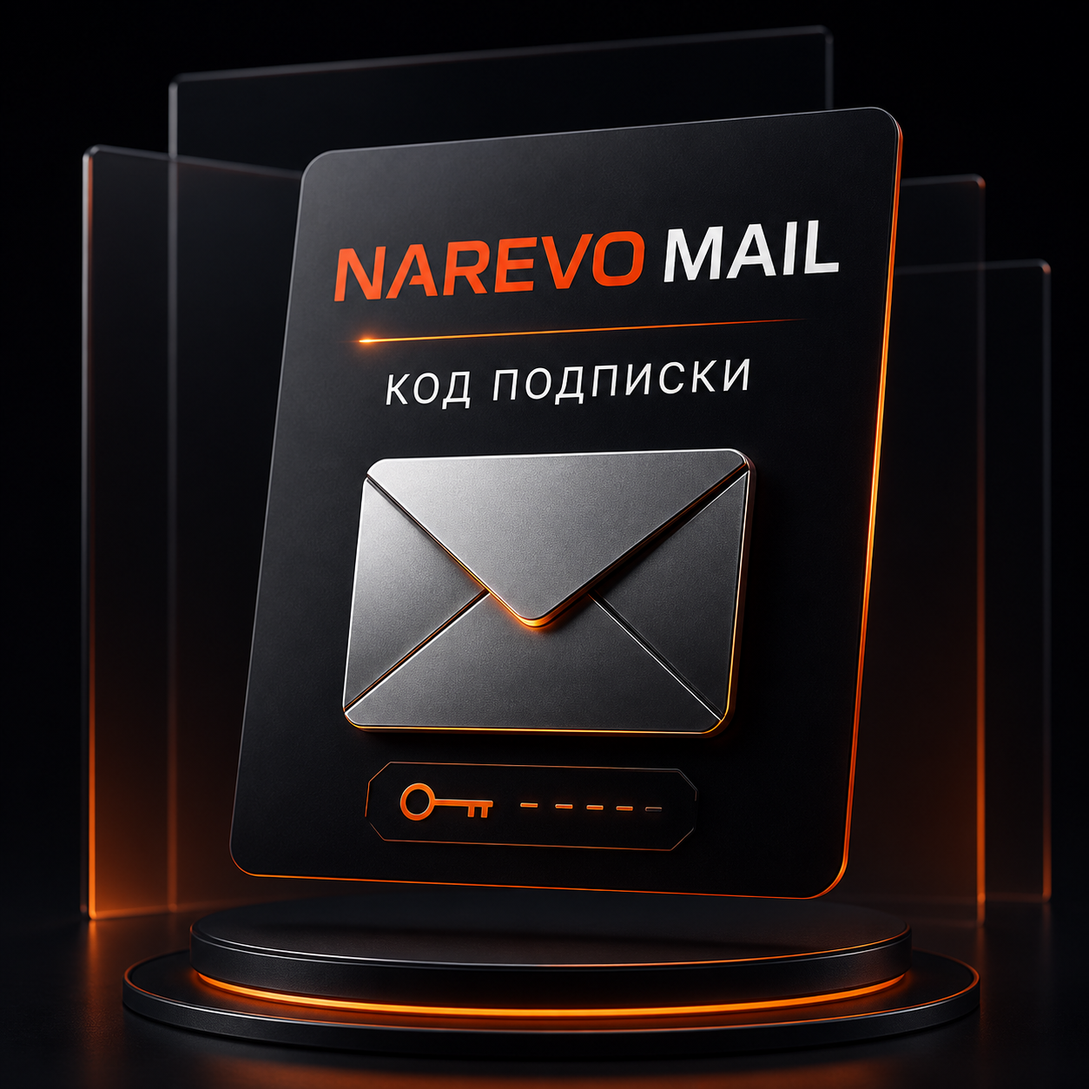
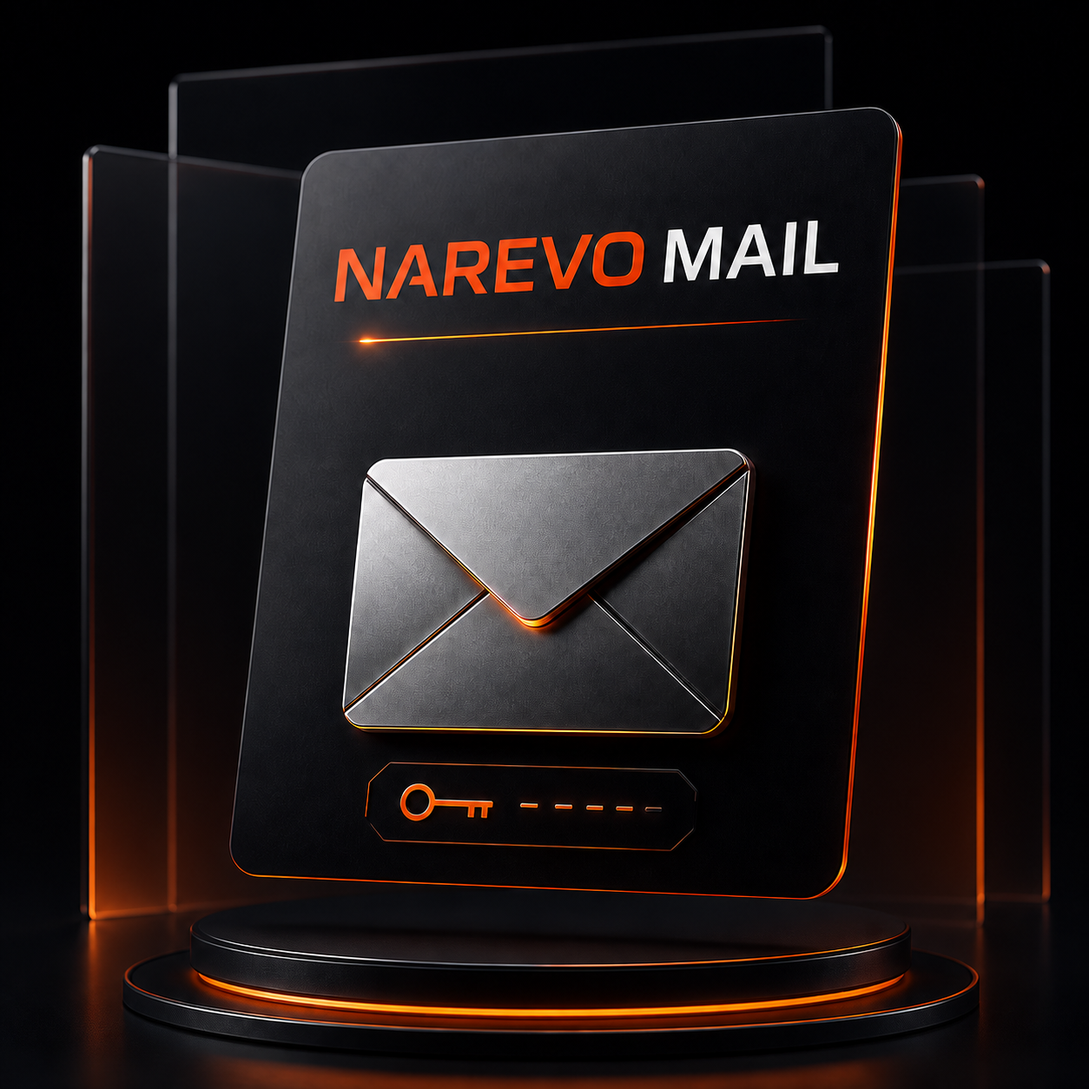
Add files via upload

diff --git a/src/server.js b/src/server.js
@@ -3,7 +3,7 @@ import fs from 'node:fs';
 import path from 'node:path';
 import { config } from './config.js';
 import { verifyTelegram } from './security.js';
-import { userView,adminView,buy,requestTopup,addCodes,approveTopup,addProduct,addCategory,toggleCategory,updateProductPrice,setProductCategory,createTicket,addTicketMessage,closeTicket } from './store.js';
+import { userView,adminView,buy,requestTopup,addCodes,approveTopup,addProduct,archiveProduct,addCategory,toggleCategory,updateProductPrice,setProductCategory,createTicket,addTicketMessage,closeTicket } from './store.js';
 
 const types={'.html':'text/html; charset=utf-8','.css':'text/css; charset=utf-8','.js':'text/javascript; charset=utf-8','.png':'image/png','.svg':'image/svg+xml'};
 const json=(res,status,data)=>{res.writeHead(status,{'content-type':'application/json; charset=utf-8','cache-control':'no-store'});res.end(JSON.stringify(data));};
@@ -27,7 +27,7 @@ const server=http.createServer(async(req,res)=>{try{
   if(!fs.existsSync(target)||fs.statSync(target).isDirectory()){res.writeHead(404);return res.end('Not found')}; res.writeHead(200,{'content-type':types[path.extname(target)]||'application/octet-stream'});fs.createReadStream(target).pipe(res);
 }catch(e){json(res,e.message.includes('Telegram')?401:400,{error:e.message})}});
 
-const tgApi=(method,payload)=>fetch(`https://api.telegram.org/bot${config.token}/${method}`,{method:'POST',headers:{'content-type':'application/json'},body:JSON.stringify(payload)});
+const tgApi=async(method,payload)=>{const request=(name,data)=>fetch(`https://api.telegram.org/bot${config.token}/${name}`,{method:'POST',headers:{'content-type':'application/json'},body:JSON.stringify(data)});const response=await request(method,payload);if(method==='editMessageText'&&!response.ok)return request('editMessageCaption',{...payload,caption:payload.text,text:undefined});return response};
 const money=n=>`${Number(n).toLocaleString('ru-RU')} ₽`;
 const html=value=>String(value??'').replace(/[&<>]/g,c=>({'&':'&amp;','<':'&lt;','>':'&gt;'}[c]));
 const pendingInput=new Map();
@@ -41,23 +41,27 @@ async function show(chatId,user,section,messageId){const data=userView(user);con
   else if(section==='topup'){text='<b>Пополнение баланса</b>\n\nВыберите удобный способ:';keyboard=[[{text:'🔵 СБП',callback_data:'paymethod:sbp'},{text:'🟣 CryptoBot',callback_data:'paymethod:cryptobot'}],[{text:'‹ В меню',callback_data:'home'}]];}
   else if(section.startsWith('paymethod:')){const method=section.slice(10);text=`<b>${method==='sbp'?'🔵 СБП':'🟣 CryptoBot'}</b>\n\nВыберите сумму пополнения:`;keyboard=[[500,1000,2000].map(x=>({text:money(x),callback_data:`topup:${method}:${x}`})),[{text:'‹ Назад',callback_data:'topup'}]];}
   else if(section==='support'){const open=data.tickets.find(t=>t.status==='open');text='<b>Поддержка NAREVO</b>\n\n'+(open?`У вас есть открытый тикет <code>#${open.id}</code>.`:'Создайте тикет — администратор ответит прямо здесь.');keyboard=[[{text:open?'Открыть тикет':'Создать тикет',callback_data:open?`ticket:${open.id}`:'ticket_new'}],[{text:'‹ В меню',callback_data:'home'}]];}
-  else if(section.startsWith('ticket:')){const id=section.slice(7);const t=(admin?adminView().tickets:data.tickets).find(x=>x.id===id);if(!t)return;const messages=t.messages.map(m=>`${m.author==='admin'?'🟠 Администратор':m.author==='user'?'⚪ Клиент':'ℹ'}: ${html(m.text)}`).join('\n\n');text=`<b>Тикет #${t.id}</b> · ${t.status==='open'?'Открыт':'Закрыт'}\n\n${messages}`;keyboard=t.status==='open'?[[{text:'✍ Написать',callback_data:`ticket_reply:${t.id}`}],...(admin?[[{text:'Закрыть тикет',callback_data:`ticket_close:${t.id}`}]]:[]),[{text:'‹ Назад',callback_data:admin?'admin_tickets':'support'}]]:[[{text:'‹ Назад',callback_data:admin?'admin_tickets':'support'}]];}
+  else if(section.startsWith('ticket:')){const id=section.slice(7);const t=(admin?adminView().tickets:data.tickets).find(x=>x.id===id);if(!t)return;const messages=t.messages.slice(-5).map(m=>`${m.author==='admin'?'🟠 Администратор':m.author==='user'?'⚪ Клиент':'ℹ'}: ${html(m.text).slice(0,180)}`).join('\n\n');text=`<b>Тикет #${t.id}</b> · ${t.status==='open'?'Открыт':'Закрыт'}\n\n${messages}`;keyboard=t.status==='open'?[[{text:'✍ Написать',callback_data:`ticket_reply:${t.id}`}],...(admin?[[{text:'Закрыть тикет',callback_data:`ticket_close:${t.id}`}]]:[]),[{text:'‹ Назад',callback_data:admin?'admin_tickets':'support'}]]:[[{text:'‹ Назад',callback_data:admin?'admin_tickets':'support'}]];}
   else if(section==='admin'&&admin){const a=adminView();text=`<b>NAREVO · Админ-панель</b>\n\nПользователей: ${a.users.length}\nЗаказов: ${a.orders.length}\nЗаявок: ${a.topups.filter(x=>x.status==='pending').length}\nТикетов: ${a.tickets.filter(x=>x.status==='open').length}`;keyboard=[[{text:'🎫 Тикеты',callback_data:'admin_tickets'},{text:'💳 Пополнения',callback_data:'admin_topups'}],[{text:'📁 Категории',callback_data:'admin_categories'},{text:'📦 Товары и цены',callback_data:'admin_products'}],[{text:'📊 Остатки',callback_data:'admin_stock'}],[{text:'‹ В меню',callback_data:'home'}]];}
   else if(section==='admin_tickets'&&admin){const tickets=adminView().tickets;text='<b>Тикеты поддержки</b>\n\nВыберите обращение:';keyboard=tickets.map(t=>[{text:`${t.status==='open'?'🟢':'⚫'} #${t.id} · ${t.userName}`,callback_data:`ticket:${t.id}`}]);keyboard.push([{text:'‹ В админ-панель',callback_data:'admin'}]);}
   else if(section==='admin_categories'&&admin){const cats=adminView().categories;text='<b>Категории</b>\n\nНажмите категорию, чтобы включить/скрыть:';keyboard=cats.map(c=>[{text:`${c.active?'🟢':'⚫'} ${c.title}`,callback_data:`category_toggle:${c.id}`}]);keyboard.push([{text:'➕ Новая категория',callback_data:'category_add'}],[{text:'‹ В админ-панель',callback_data:'admin'}]);}
-  else if(section==='admin_products'&&admin){const products=adminView().products;text='<b>Товары и цены</b>\n\nВыберите товар:';keyboard=products.map((p,i)=>[{text:`${p.title} · ${money(p.price)}`,callback_data:`admin_product:${i}`}]);keyboard.push([{text:'‹ В админ-панель',callback_data:'admin'}]);}
-  else if(section.startsWith('admin_product:')&&admin){const index=Number(section.slice(14));const a=adminView();const p=a.products[index];if(!p)return;const category=a.categories.find(c=>c.id===p.categoryId);text=`<b>${p.title}</b>\nКатегория: ${category?.title||'Без категории'}\nЦена: ${money(p.price)}\nОстаток: ${p.stock}`;keyboard=[[{text:'💰 Изменить цену',callback_data:`price_edit:${index}`}],[{text:'📁 Сменить категорию',callback_data:`product_categories:${index}`}],[{text:'➕ Загрузить коды',callback_data:`codes_add:${index}`}],[{text:'‹ К товарам',callback_data:'admin_products'}]];}
-  else if(section.startsWith('product_categories:')&&admin){const index=Number(section.slice(19));const a=adminView();const p=a.products[index];if(!p)return;text=`<b>${p.title}</b>\n\nВыберите категорию:`;keyboard=a.categories.map((c,i)=>[{text:`${c.id===p.categoryId?'✓ ':''}${c.title}`,callback_data:`product_setcat:${index}:${i}`}]);keyboard.push([{text:'‹ К товару',callback_data:`admin_product:${index}`}]);}
+  else if(section==='admin_products'&&admin){const products=adminView().products.filter(p=>p.active);text='<b>Товары и цены</b>\n\nВыберите товар:';keyboard=products.map((p,i)=>[{text:`${p.title} · ${money(p.price)}`,callback_data:`admin_product:${i}`}]);keyboard.push([{text:'➕ Добавить товар',callback_data:'product_add'}],[{text:'‹ В админ-панель',callback_data:'admin'}]);}
+  else if(section.startsWith('product_addcat:')&&admin){const category=adminView().categories.filter(c=>c.active)[Number(section.slice(15))];if(!category)return;pendingInput.set(user.id,{type:'product_add',step:'title',draft:{categoryId:category.id}});text=`<b>Новый товар · ${html(category.title)}</b>\n\nОтправьте следующим сообщением название товара.`;keyboard=[[{text:'Отмена',callback_data:'admin_products'}]];}
+  else if(section.startsWith('product_delete:')&&admin){const product=adminView().products.filter(p=>p.active)[Number(section.slice(15))];if(product)archiveProduct(user.id,product.id);return show(chatId,user,'admin_products',messageId);}
+  else if(section.startsWith('admin_product:')&&admin){const index=Number(section.slice(14));const a=adminView();const products=a.products.filter(x=>x.active);const p=products[index];if(!p)return;const category=a.categories.find(c=>c.id===p.categoryId);text=`<b>${p.title}</b>\nКатегория: ${category?.title||'Без категории'}\nЦена: ${money(p.price)}\nОстаток: ${p.stock}`;keyboard=[[{text:'💰 Изменить цену',callback_data:`price_edit:${index}`}],[{text:'📁 Сменить категорию',callback_data:`product_categories:${index}`}],[{text:'➕ Загрузить коды',callback_data:`codes_add:${index}`}],[{text:'🗑 Удалить товар',callback_data:`product_delete:${index}`}],[{text:'‹ К товарам',callback_data:'admin_products'}]];}
+  else if(section.startsWith('product_categories:')&&admin){const index=Number(section.slice(19));const a=adminView();const p=a.products.filter(x=>x.active)[index];if(!p)return;text=`<b>${p.title}</b>\n\nВыберите категорию:`;keyboard=a.categories.filter(c=>c.active).map((c,i)=>[{text:`${c.id===p.categoryId?'✓ ':''}${c.title}`,callback_data:`product_setcat:${index}:${i}`}]);keyboard.push([{text:'‹ К товару',callback_data:`admin_product:${index}`}]);}
+  else if(section==='product_add'&&admin){const cats=adminView().categories.filter(c=>c.active);text='<b>Новый товар</b>\n\nСначала выберите категорию:';keyboard=cats.map((c,i)=>[{text:c.title,callback_data:`product_addcat:${i}`}]);keyboard.push([{text:'‹ К товарам',callback_data:'admin_products'}]);}
   else if(section==='admin_topups'&&admin){const pending=adminView().topups.filter(x=>x.status==='pending');text='<b>Заявки на пополнение</b>\n\n'+(pending.length?pending.map(t=>`${t.method==='cryptobot'?'🟣 CryptoBot':'🔵 СБП'} · ID ${t.userId} · ${money(t.amount)}`).join('\n'):'Новых заявок нет.');keyboard=pending.map(t=>[{text:`Подтвердить ${money(t.amount)} · ${t.userId}`,callback_data:`approve:${t.id}`}]);keyboard.push([{text:'‹ В админ-панель',callback_data:'admin'}]);}
   else if(section==='admin_stock'&&admin){const a=adminView();text='<b>Остатки товаров</b>\n\n'+a.products.map(p=>`${p.title}: <b>${p.stock}</b>`).join('\n')+'\n\nДля безопасной загрузки кодов используйте Mini App или API админ-панели.';keyboard=[[{text:'‹ В админ-панель',callback_data:'admin'}]];}
   else{text='<b>NAREVO</b>\nОфициальные цифровые коды подписок.\n\nВыберите раздел:';keyboard=menu(user,admin).inline_keyboard;}
   const payload={chat_id:chatId,text,parse_mode:'HTML',reply_markup:{inline_keyboard:keyboard}};if(messageId){payload.message_id=messageId;await tgApi('editMessageText',payload)}else await tgApi('sendMessage',payload);
 }
 async function botLoop(offset=0){if(!config.token)return;try{const r=await fetch(`https://api.telegram.org/bot${config.token}/getUpdates?timeout=25&offset=${offset}`);const d=await r.json();for(const update of d.result||[]){offset=update.update_id+1;const m=update.message;const q=update.callback_query;
-    if(m?.text==='/start'||m?.text==='/menu'){if(m?.text==='/start')await tgApi('sendPhoto',{chat_id:m.chat.id,photo:config.productImageUrl,caption:'<b>NAREVO MAIL</b>\nОфициальные цифровые коды подписки.',parse_mode:'HTML'});await show(m.chat.id,m.from,'home')}
+    if(m?.text==='/start'){const admin=await hasAdminAccess(m.from.id);await tgApi('sendPhoto',{chat_id:m.chat.id,photo:config.productImageUrl,caption:'<b>NAREVO</b>\nОфициальные цифровые коды подписок.\n\nВыберите раздел:',parse_mode:'HTML',reply_markup:menu(m.from,admin)})}
+    else if(m?.text==='/menu')await show(m.chat.id,m.from,'home');
     else if(m?.text==='/id')await tgApi('sendMessage',{chat_id:m.chat.id,text:`Ваш Telegram ID: <code>${m.from.id}</code>`,parse_mode:'HTML'});
     else if(m?.text==='/chatid'&&['group','supergroup'].includes(m.chat.type))await tgApi('sendMessage',{chat_id:m.chat.id,text:`ID служебного чата: <code>${m.chat.id}</code>`,parse_mode:'HTML'});
-    else if(m?.text&&!m.text.startsWith('/')&&pendingInput.has(m.from.id)){const task=pendingInput.get(m.from.id);pendingInput.delete(m.from.id);const admin=await hasAdminAccess(m.from.id);try{if(task.type==='ticket'){const t=addTicketMessage(m.from.id,task.id,m.text,admin);if(admin)await notify(t.userId,`🟠 Новый ответ поддержки в тикете <b>#${t.id}</b>. Откройте раздел «Поддержка».`);else if(config.adminChatId)await notify(config.adminChatId,`🎫 Новое сообщение в тикете <b>#${t.id}</b> от ${html(t.userName)}.`)}else if(admin&&task.type==='category')addCategory(m.from.id,m.text);else if(admin&&task.type==='price')updateProductPrice(m.from.id,task.id,m.text);else if(admin&&task.type==='codes')addCodes(m.from.id,task.id,m.text.split(/\r?\n/));await tgApi('sendMessage',{chat_id:m.chat.id,text:'✅ Сохранено. Отправьте /menu, чтобы продолжить.'})}catch(e){await tgApi('sendMessage',{chat_id:m.chat.id,text:`Ошибка: ${e.message}`})}}
+    else if(m?.text&&!m.text.startsWith('/')&&pendingInput.has(m.from.id)){const task=pendingInput.get(m.from.id);const admin=await hasAdminAccess(m.from.id);try{let done=true;if(task.type==='ticket'){const t=addTicketMessage(m.from.id,task.id,m.text,admin);if(admin)await notify(t.userId,`🟠 Новый ответ поддержки в тикете <b>#${t.id}</b>. Откройте раздел «Поддержка».`);else if(config.adminChatId)await notify(config.adminChatId,`🎫 Новое сообщение в тикете <b>#${t.id}</b> от ${html(t.userName)}.`)}else if(admin&&task.type==='category')addCategory(m.from.id,m.text);else if(admin&&task.type==='price')updateProductPrice(m.from.id,task.id,m.text);else if(admin&&task.type==='codes')addCodes(m.from.id,task.id,m.text.split(/\r?\n/));else if(admin&&task.type==='product_add'){task.draft[task.step]=m.text.trim();const next={title:['term','Введите срок, например «1 месяц»:'],term:['description','Введите краткое описание товара:'],description:['price','Введите цену числом в рублях:']}[task.step];if(next){task.step=next[0];pendingInput.set(m.from.id,task);done=false;await tgApi('sendMessage',{chat_id:m.chat.id,text:next[1]})}else addProduct(m.from.id,task.draft)}if(done){pendingInput.delete(m.from.id);await tgApi('sendMessage',{chat_id:m.chat.id,text:'✅ Сохранено. Отправьте /menu, чтобы продолжить.'})}}catch(e){pendingInput.delete(m.from.id);await tgApi('sendMessage',{chat_id:m.chat.id,text:`Ошибка: ${e.message}`})}}
     if(q){await tgApi('answerCallbackQuery',{callback_query_id:q.id});const action=q.data;try{if(action.startsWith('buy:')){const out=buy(q.from,action.slice(4));await tgApi('sendMessage',{chat_id:q.message.chat.id,text:`✅ <b>Покупка выполнена</b>\n${out.title}\n\nВаш код:\n<code>${out.code}</code>`,parse_mode:'HTML'});await show(q.message.chat.id,q.from,'profile',q.message.message_id)}else if(action.startsWith('topup:')){const [,method,amount]=action.split(':');const t=requestTopup(q.from,Number(amount),method);await tgApi('editMessageText',{chat_id:q.message.chat.id,message_id:q.message.message_id,text:`✅ Заявка на ${money(t.amount)} через ${method==='sbp'?'СБП':'CryptoBot'} создана.\nАдминистратор пришлёт реквизиты и подтвердит оплату.`,reply_markup:{inline_keyboard:[[{text:'🛟 Написать в поддержку',callback_data:'support'}],[{text:'‹ В меню',callback_data:'home'}]]}});for(const a of config.admins)await notify(a,`💳 Заявка ${method} на ${money(t.amount)} · пользователь ${q.from.id}`);if(config.adminChatId)await notify(config.adminChatId,`💳 Заявка ${method} на ${money(t.amount)} · пользователь ${q.from.id}`)}else if(action==='ticket_new'){const t=createTicket(q.from);if(config.adminChatId)await notify(config.adminChatId,`🎫 Создан тикет <b>#${t.id}</b> от ${html(t.userName)}.`);await show(q.message.chat.id,q.from,`ticket:${t.id}`,q.message.message_id)}else if(action.startsWith('ticket_reply:')){pendingInput.set(q.from.id,{type:'ticket',id:action.slice(13)});await tgApi('sendMessage',{chat_id:q.message.chat.id,text:'✍ Отправьте следующее сообщение — оно попадёт в тикет.'})}else if(action.startsWith('ticket_close:')&&await hasAdminAccess(q.from.id)){closeTicket(q.from.id,action.slice(13));await show(q.message.chat.id,q.from,'admin_tickets',q.message.message_id)}else if(action==='category_add'&&await hasAdminAccess(q.from.id)){pendingInput.set(q.from.id,{type:'category'});await tgApi('sendMessage',{chat_id:q.message.chat.id,text:'Введите название новой категории:'})}else if(action.startsWith('category_toggle:')&&await hasAdminAccess(q.from.id)){toggleCategory(q.from.id,action.slice(16));await show(q.message.chat.id,q.from,'admin_categories',q.message.message_id)}else if(action.startsWith('product_setcat:')&&await hasAdminAccess(q.from.id)){const [,pi,ci]=action.split(':');const a=adminView();setProductCategory(q.from.id,a.products[Number(pi)]?.id,a.categories[Number(ci)]?.id);await show(q.message.chat.id,q.from,`admin_product:${pi}`,q.message.message_id)}else if(action.startsWith('price_edit:')&&await hasAdminAccess(q.from.id)){const p=adminView().products[Number(action.slice(11))];pendingInput.set(q.from.id,{type:'price',id:p?.id});await tgApi('sendMessage',{chat_id:q.message.chat.id,text:'Введите новую цену числом в рублях:'})}else if(action.startsWith('codes_add:')&&await hasAdminAccess(q.from.id)){const p=adminView().products[Number(action.slice(10))];pendingInput.set(q.from.id,{type:'codes',id:p?.id});await tgApi('sendMessage',{chat_id:q.message.chat.id,text:'Отправьте коды активации: один код на строку. Логины и пароли не принимаются.'})}else if(action.startsWith('approve:')&&await hasAdminAccess(q.from.id)){const t=approveTopup(q.from.id,action.slice(8));await notify(t.userId,`✅ Баланс пополнен на <b>${money(t.amount)}</b>.`);await show(q.message.chat.id,q.from,'admin_topups',q.message.message_id)}else if(action!=='noop')await show(q.message.chat.id,q.from,action,q.message.message_id)}catch(e){await tgApi('answerCallbackQuery',{callback_query_id:q.id,text:e.message,show_alert:true})}}
   }}catch(e){console.error('Telegram polling error:',e.message)}setTimeout(()=>botLoop(offset),1000)}
 server.listen(config.port,()=>console.log(`NAREVO: http://localhost:${config.port}`));botLoop();

diff --git a/src/store.js b/src/store.js
@@ -18,12 +18,13 @@ export function userView(user) {
   const key=String(user.id); db.users[key] ||= { id:user.id, name:user.first_name||user.username||'Пользователь', balance:0, joinedAt:new Date().toISOString() }; save();
   return { user:db.users[key], categories:db.categories.filter(c=>c.active), products:db.products.filter(p=>p.active).map(p=>({...p,stock:stock(p.id)})), orders:db.orders.filter(o=>o.userId===user.id).map(o=>({...o,code:o.encryptedCode?decrypt(o.encryptedCode):null})), topups:db.topups.filter(t=>t.userId===user.id), tickets:db.tickets.filter(t=>t.userId===user.id).map(ticketView) };
 }
-export function adminView(){ return { categories:db.categories, products:db.products.map(p=>({...p,stock:stock(p.id)})), orders:db.orders.slice(-50).reverse(), topups:db.topups.slice(-50).reverse(), tickets:db.tickets.slice(-50).reverse().map(ticketView), users:Object.values(db.users), audit:db.audit.slice(-50).reverse() }; }
+export function adminView(){ return { categories:db.categories.slice().sort((a,b)=>Number(b.active)-Number(a.active)), products:db.products.map(p=>({...p,stock:stock(p.id)})).sort((a,b)=>Number(b.active)-Number(a.active)), orders:db.orders.slice(-50).reverse(), topups:db.topups.slice(-50).reverse(), tickets:db.tickets.slice(-50).reverse().map(ticketView), users:Object.values(db.users), audit:db.audit.slice(-50).reverse() }; }
 export function buy(user, productId){ const p=db.products.find(x=>x.id===productId&&x.active); const u=db.users[String(user.id)]; const code=db.codes.find(x=>x.productId===productId&&!x.orderId); if(!p) throw Error('Товар недоступен'); if(!code) throw Error('Коды закончились'); if(u.balance<p.price) throw Error('Недостаточно средств'); const order={id:id(),userId:user.id,productId,title:p.title,price:p.price,status:'delivered',createdAt:new Date().toISOString(),encryptedCode:code.value}; u.balance-=p.price; code.orderId=order.id; db.orders.push(order); audit(user.id,'purchase',order.id); save(); return {...order,code:decrypt(code.value),balance:u.balance}; }
 export function requestTopup(user, amount, method='sbp'){ if(!Number.isFinite(amount)||amount<100||amount>100000) throw Error('Сумма от 100 до 100 000 ₽'); if(!['sbp','cryptobot'].includes(method))throw Error('Способ оплаты недоступен');const t={id:id(),userId:user.id,amount,method,status:'pending',createdAt:new Date().toISOString()}; db.topups.push(t); audit(user.id,'topup_requested',t.id); save(); return t; }
 export function addCodes(adminId,productId,values){ const p=db.products.find(x=>x.id===productId); if(!p) throw Error('Товар не найден'); const clean=[...new Set(values.map(x=>x.trim()).filter(Boolean))]; if(clean.some(x=>/^\S+?:\S+$/.test(x)))throw Error('Формат login:pass запрещён. Загружайте только коды активации'); for(const value of clean) db.codes.push({id:id(),productId,value:encrypt(value),createdAt:new Date().toISOString()}); audit(adminId,'codes_added',`${productId}:${clean.length}`); save(); return clean.length; }
 export function approveTopup(adminId,topupId){ const t=db.topups.find(x=>x.id===topupId); if(!t||t.status!=='pending') throw Error('Заявка уже обработана'); t.status='approved'; db.users[String(t.userId)].balance+=t.amount; audit(adminId,'topup_approved',t.id); save(); return t; }
-export function addProduct(adminId,p){ const product={id:id(),title:String(p.title).slice(0,80),term:String(p.term).slice(0,40),description:String(p.description).slice(0,240),price:Number(p.price),active:true}; if(!product.title||product.price<1) throw Error('Проверьте название и цену'); db.products.push(product); audit(adminId,'product_added',product.id); save(); return product; }
+export function addProduct(adminId,p){ const category=db.categories.find(c=>c.id===p.categoryId&&c.active)||db.categories.find(c=>c.active);const product={id:id(),categoryId:category?.id||'mail',title:String(p.title).trim().slice(0,80),term:String(p.term).trim().slice(0,40),description:String(p.description).trim().slice(0,240),price:Number(p.price),active:true}; if(!product.title||!product.term||!product.description||product.price<1) throw Error('Проверьте данные товара'); db.products.push(product); audit(adminId,'product_added',product.id); save(); return product; }
+export function archiveProduct(adminId,productId){const p=db.products.find(x=>x.id===productId&&x.active);if(!p)throw Error('Товар не найден');p.active=false;p.archivedAt=new Date().toISOString();audit(adminId,'product_archived',p.id);save();return p}
 export function addCategory(adminId,title){title=String(title).trim().slice(0,60);if(!title)throw Error('Название пустое');const c={id:id(),title,active:true};db.categories.push(c);audit(adminId,'category_added',c.id);save();return c}
 export function toggleCategory(adminId,categoryId){const c=db.categories.find(x=>x.id===categoryId);if(!c)throw Error('Категория не найдена');c.active=!c.active;audit(adminId,'category_toggled',c.id);save();return c}
 export function updateProductPrice(adminId,productId,price){const p=db.products.find(x=>x.id===productId);price=Number(price);if(!p||!Number.isFinite(price)||price<1||price>1000000)throw Error('Некорректная цена');p.price=price;audit(adminId,'price_updated',p.id);save();return p}

diff --git a/src/config.js b/src/config.js
@@ -13,7 +13,7 @@ export const config = {
   publicUrl: (process.env.PUBLIC_URL || 'http://localhost:3000').replace(/\/$/, ''),
   admins: new Set((process.env.ADMIN_IDS || '').split(',').filter(Boolean).map(Number)),
   adminChatId: Number(process.env.ADMIN_CHAT_ID || 0),
-  productImageUrl: process.env.PRODUCT_IMAGE_URL || 'https://raw.githubusercontent.com/ganxui/narevo-bot/main/public/product-mail.png',
+  productImageUrl: process.env.PRODUCT_IMAGE_URL || 'https://raw.githubusercontent.com/ganxui/narevo-bot/main/public/product-mail.png?v=2',
   dataKey: process.env.DATA_KEY || '',
   demo: !process.env.BOT_TOKEN,
 };
